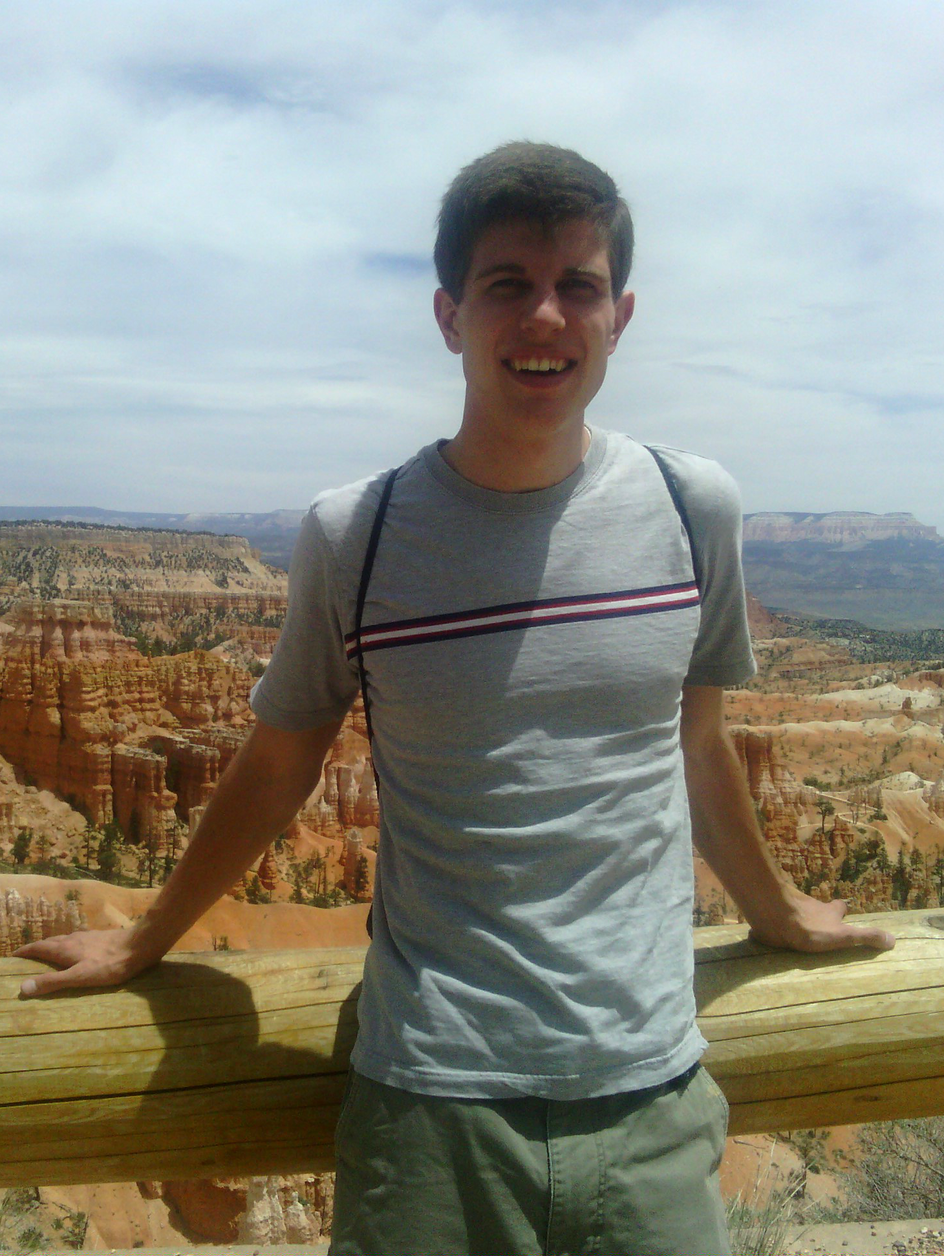
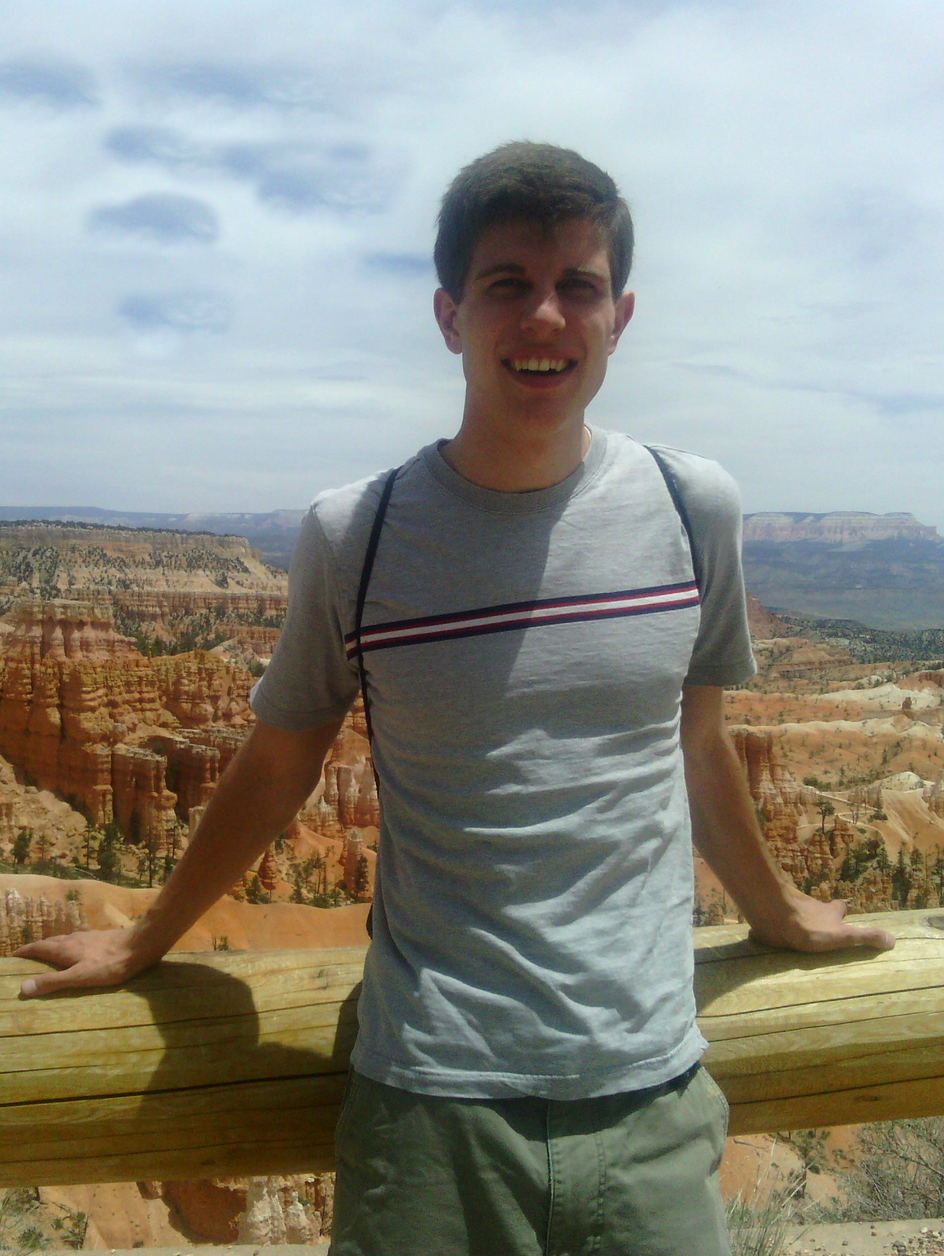
Added picture for slide

Changed region(s): [[0.0, 0.0309, 0.4007, 0.216], [0.1233, 0.216, 0.1849, 0.2778]]

diff --git a/public/web-sliding-puzzle/sliding.js b/public/web-sliding-puzzle/sliding.js
@@ -32,7 +32,7 @@ function init() {
     //var newgame = document.getElementById('newgame');
     var restartgame = document.getElementById('restartgame');
 
-    puzzle.init('/images/Portrait.JPG');
+    puzzle.init('/images/myself.png');
     /*if ('MozActivity' in window) {
         // For browsers with Web Activities, i.e. Firefox OS, we show the
         //   Web Activities "pick", restricting to images. 

diff --git a/public/web-sliding-puzzle/index.html b/public/web-sliding-puzzle/index.html
@@ -162,7 +162,7 @@
     <h1><span class="s1">Slide Puzzle</span></h1>
     
     <div id="reminder">
-      <p>(When playing, touch the empty space to pause)</p>
+      <p>(When solving, touch the empty space to pause)</p>
     </div>
   </form>
   <div id="paused">
